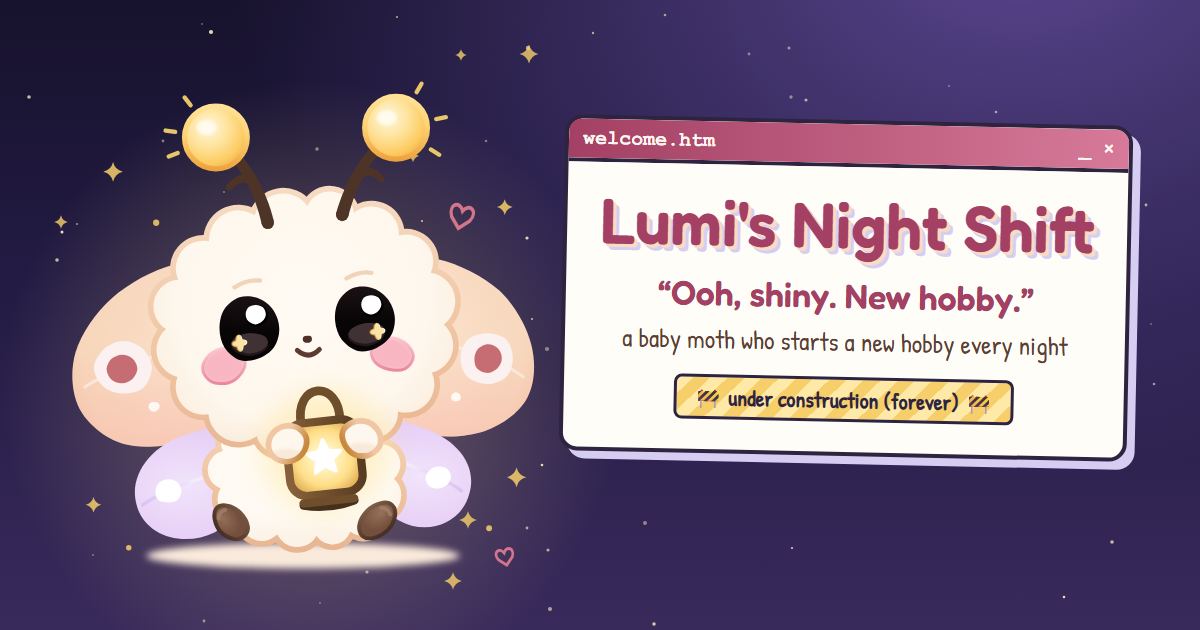
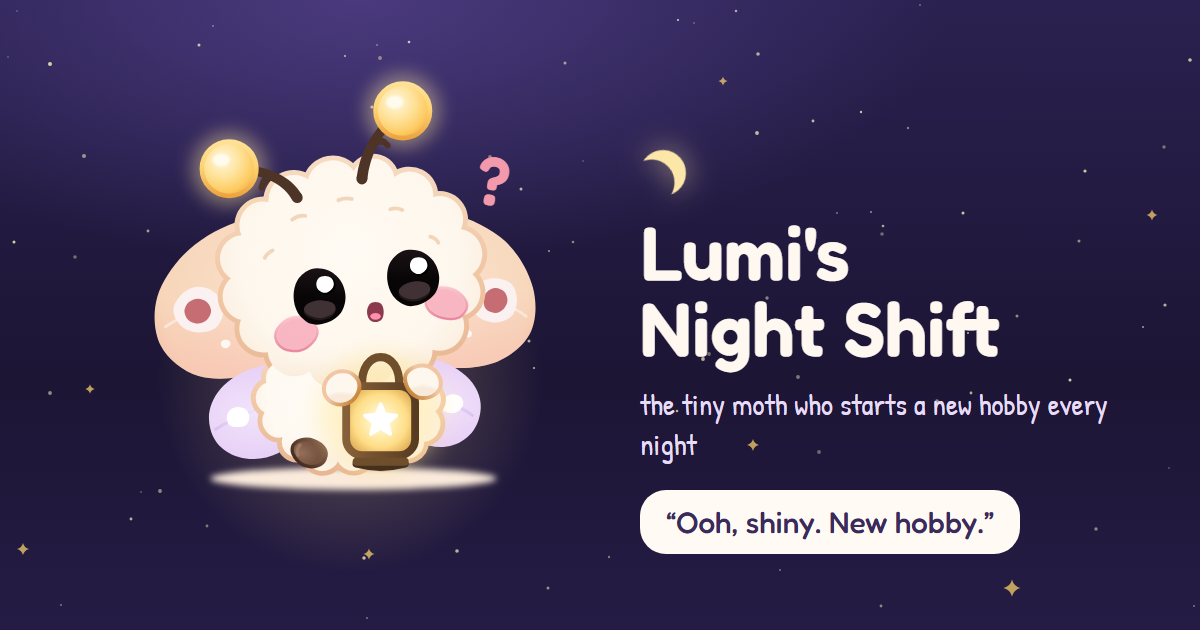
Update the README and link-preview image for the remake

diff --git a/README.md b/README.md
@@ -15,14 +15,16 @@ Built for the haX.baby *Baby's First Website* hackathon (Track 2: original chara
 4. **Their story:** hatched in a paint box under a desk lamp and has chased lights (and hobbies) ever since. The only thing it ever finished is the lantern it carries.
 5. **Tagline:** “Ooh, shiny. New hobby.”
 
-## What's on the page
+## What's on the site
 
-The site is a retro desktop on a starry night. Every section is a window you can minimize, close and reopen, and drag around on big screens.
+One calm screen at a time on a starry night, with tabs at the bottom and a menu for the rest.
 
-- **lumi.exe:** Lumi reacts to you. Poke it to make it giggle, but poke it too much and it gets hurt, then flops. Drag a cookie from the jar to bring it back (tapping a cookie works too). Leave it alone and it falls asleep. Its eyes follow your cursor or finger.
-- **hobby_room.exe:** a dark room where your cursor is Lumi's lantern. Find five half-finished hobbies, each with an "under construction" progress card.
-- **story.txt:** a six-page storybook. The last page lights the lantern, and the light spreads over the whole site.
-- **museum_of_useless_facts.exe**, a **guestbook**, a cookie odometer, a visit counter, and Lumi remembers when you come back.
+- **Home:** Lumi itself. Tap Lumi to poke it, but not too much: it gets hurt, then flops. Feed it a cookie to bring it back, or pick a mood. It falls asleep if you leave, its eyes follow your cursor or finger, and it remembers your visits.
+- **Hobbies:** six half-finished projects with "under construction" progress cards. You can suggest a new hobby too.
+- **Hobby room:** a dark room where Lumi's lantern follows your cursor (or your taps) and finds the hobbies.
+- **Play: Star Catch:** a mini game in five short levels. Catch falling stars, dodge raindrops, and catch cookies to heal.
+- **Story:** six scenes. The last one lights the lantern, and the light spreads over the whole site.
+- **Guestbook**, a **museum of useless facts**, the **about** page (character sheet), and **credits** with a visitor odometer.
 - Moth-dust sparkle trail, click sounds with a mute button, and two hidden secrets.
 
 ## Run it
@@ -35,11 +37,12 @@ py -m http.server 8000
 
 ## Files
 
-- `index.html`: the page
-- `css/style.css`: the desktop, the windows and everything around them
-- `css/lumi.css` and `js/lumi.js`: Lumi's art and motion (`lumi(mood)` returns an SVG for one of eight moods)
-- `js/main.js`: the interactions
-- `design/`: Lumi's reference art and the SVG design pages it was built from
+- `index.html`: every screen (the URL hash picks which one shows)
+- `css/style.css`: the layout and look
+- `js/core.js`: storage, sound, toasts, counters, eye-follow and the router
+- `js/home.js`, `js/hobbies.js`, `js/game.js`, `js/pages.js`: one file per part of the site
+- `js/lumi.js` and `css/lumi.css`: Lumi's art and motion. `sticker(mood)` draws Lumi in 18 moods. These are copied from `design/lumi-stickers.html` by `node tools/sync-art.mjs`.
+- `design/`: Lumi's reference art and the pages the SVG was drawn and checked in
 
 ## Credits
 
